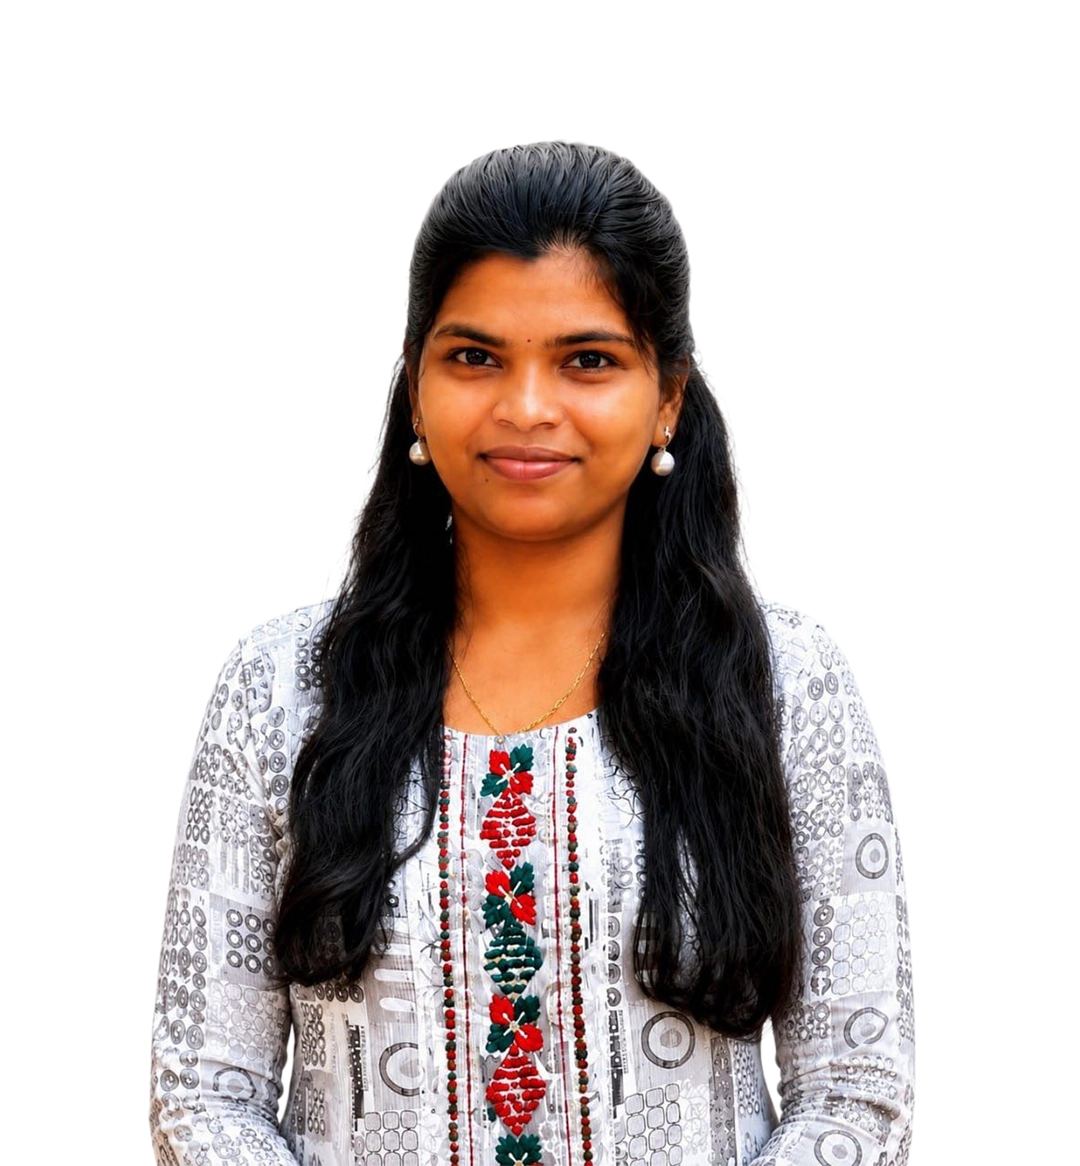
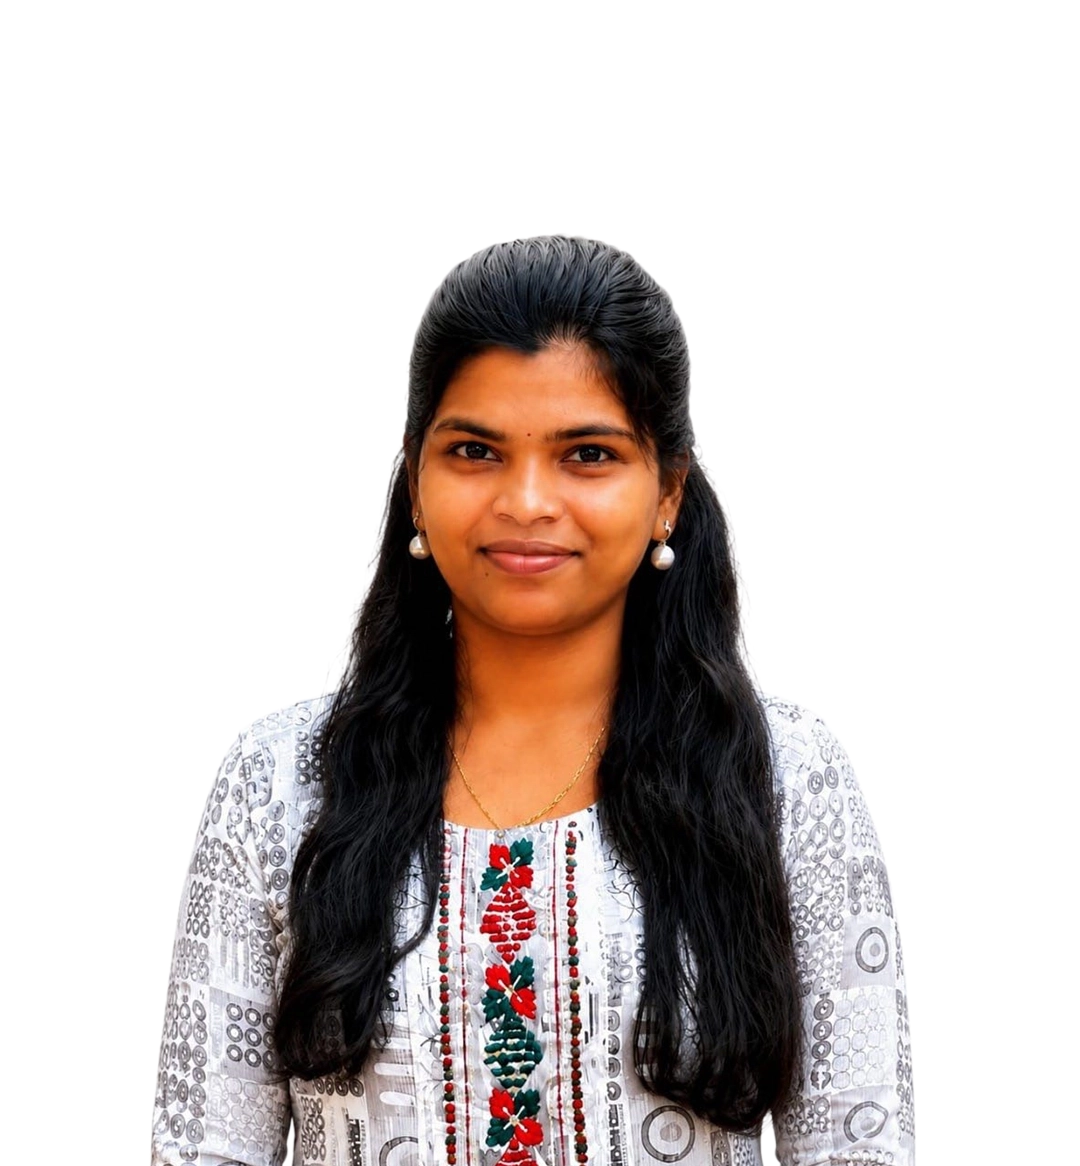
team page updated

diff --git a/app/landing-page/[slug]/page.js b/app/landing-page/[slug]/page.js
@@ -51,10 +51,10 @@ export default async function IncidentDetailPage({ params }) {
             <ArrowLeft className="h-5 w-5" />
           </Link>
 
-          <h1 className="mx-auto max-w-[800px] font-serif text-[38px] font-light uppercase leading-tight tracking-[-0.03em] text-[#001f2b] md:text-[44px] lg:text-[50px]">
+          <h1 className="mx-auto max-w-[800px] text-2xl font-normal uppercase leading-tight tracking-wide text-[#001f2b] sm:text-3xl">
             {incident.title}
           </h1>
-          <p className="mx-auto mt-3 max-w-[800px] font-serif text-[26px] font-light leading-tight text-[#001f2b] md:text-[31px]">
+          <p className="mx-auto mt-3 max-w-[800px] text-[14px] font-light italic leading-relaxed tracking-wide text-[#001f2b]">
             {incident.subtitle}
           </p>
         </section>
@@ -68,24 +68,24 @@ export default async function IncidentDetailPage({ params }) {
           />
         </div>
 
-        <article className="mx-auto max-w-[960px] px-6 py-7 font-serif text-[12px] leading-tight text-black md:text-[16px]">
-          <h2 className="mb-4 text-[18px] font-bold md:text-[24px]">
+        <article className="mx-auto max-w-[960px] px-6 py-7 text-[16px] font-normal leading-relaxed tracking-wide text-black">
+          <h2 className="mb-4 text-[16px] font-normal tracking-wide">
             Location: {incident.location}
           </h2>
 
           <div className="space-y-3">
             {incident.sections.map((section) => (
               <section key={section.heading}>
-                <h3 className="text-[18px] font-bold md:text-[24px]">
+                <h3 className="text-[16px] font-normal tracking-wide">
                   {section.heading}
                 </h3>
                 {section.body?.map((paragraph) => (
-                  <p key={paragraph} className="my-2 text-[12px] md:text-[16px]">
+                  <p key={paragraph} className="my-2">
                     {paragraph}
                   </p>
                 ))}
                 {section.points ? (
-                  <ul className="my-2 list-disc pl-5 text-[12px] md:text-[16px]">
+                  <ul className="my-2 list-disc pl-5">
                     {section.points.map((point) => (
                       <li key={point}>{point}</li>
                     ))}
@@ -98,7 +98,7 @@ export default async function IncidentDetailPage({ params }) {
 
         {otherIncidents.length > 0 ? (
           <section className="mx-auto max-w-[1160px] px-6 pb-14 pt-8">
-            <h2 className="mb-8 text-center text-[28px] font-light leading-tight text-black md:mb-10 md:text-[34px]">
+            <h2 className="mb-8 text-center text-2xl font-normal tracking-wide text-black sm:text-3xl md:mb-10">
               Related Technical Incidents
             </h2>
 
@@ -126,11 +126,11 @@ export default async function IncidentDetailPage({ params }) {
                   </div>
 
                   <div className="mt-3 flex flex-1 flex-col">
-                    <h3 className="line-clamp-2 text-[20px] leading-tight tracking-[-0.03em] text-black md:text-[24px]">
+                    <h3 className="line-clamp-2 text-[16px] font-normal tracking-wide text-black">
                       {item.title}
                     </h3>
 
-                    <p className="mt-1 line-clamp-2 text-[14px] text-[#1f292d]">
+                    <p className="mt-1 line-clamp-2 text-[14px] font-light italic tracking-wide text-[#1f292d]">
                       {item.subtitle}
                     </p>
 

diff --git a/components/LandingPage/Components/RelatedSeafarerStories.js b/components/LandingPage/Components/RelatedSeafarerStories.js
@@ -1,34 +1,17 @@
-"use client";
-
 import Image from "next/image";
 import Link from "next/link";
-import { useState } from "react";
-
-const INITIAL_COUNT = 3;
-const LOAD_MORE_COUNT = 3;
 
 export default function RelatedSeafarerStories({ stories }) {
-  const [visibleCount, setVisibleCount] = useState(INITIAL_COUNT);
-
   if (!stories.length) return null;
-
-  const visibleStories = stories.slice(0, visibleCount);
-  const hasMore = visibleCount < stories.length;
-
-  const handleLoadMore = () => {
-    setVisibleCount((count) =>
-      Math.min(count + LOAD_MORE_COUNT, stories.length)
-    );
-  };
 
   return (
     <section className="mx-auto max-w-[1160px] px-6 pb-14 pt-8">
-      <h2 className="mb-8 text-center text-[28px] font-light leading-tight text-black md:mb-10 md:text-[34px]">
+      <h2 className="mb-8 text-center text-2xl font-normal tracking-wide text-black sm:text-3xl md:mb-10">
         Related Seafarer Stories
       </h2>
 
       <div className="grid items-stretch gap-8 md:grid-cols-3 md:gap-10">
-        {visibleStories.map((item) => (
+        {stories.map((item) => (
           <article key={item.slug} className="group flex h-full flex-col">
             <div className="relative h-[140px] w-full shrink-0 overflow-hidden rounded-[8px] bg-[#032531] md:h-[160px]">
               <Image
@@ -41,12 +24,12 @@ export default function RelatedSeafarerStories({ stories }) {
             </div>
 
             <div className="mt-3 flex flex-1 flex-col">
-              <h3 className="font-serif text-[18px] leading-tight text-black md:text-[22px]">
+              <h3 className="text-[16px] font-normal tracking-wide text-black">
                 {item.title}
               </h3>
 
               {item.author ? (
-                <p className="mt-1 text-[14px] text-[#1f292d]">
+                <p className="mt-1 text-[14px] font-light italic tracking-wide text-[#1f292d]">
                   {item.author}
                 </p>
               ) : null}
@@ -61,18 +44,6 @@ export default function RelatedSeafarerStories({ stories }) {
           </article>
         ))}
       </div>
-
-      {hasMore ? (
-        <div className="mt-12 flex justify-center">
-          <button
-            type="button"
-            onClick={handleLoadMore}
-            className="rounded-full border border-[#002b3c] px-8 py-3 text-[15px] text-[#002b3c] transition-all duration-300 hover:scale-105 hover:bg-[#002b3c] hover:text-white"
-          >
-            Load More
-          </button>
-        </div>
-      ) : null}
     </section>
   );
 }

diff --git a/components/LandingPage/Components/TechnicalIncidents.js b/components/LandingPage/Components/TechnicalIncidents.js
@@ -24,18 +24,18 @@ export default function TechnicalIncidents() {
     <section className="overflow-x-hidden bg-[#f7f7f4] py-14 md:py-20">
       <div className="mx-auto max-w-[1160px] px-6">
         <div className="mx-auto max-w-[800px] text-center">
-          <h2 className="text-[50px] font-light leading-[0.95] text-black md:text-[66px]">
+          <h2 className="text-3xl font-normal leading-tight tracking-wide text-black sm:text-5xl">
             Technical
            
             Incident
           </h2>
 
-          <p className="mx-auto mt-7 max-w-[800px] text-[16px] leading-relaxed text-[#1f292d]">
+          <p className="mx-auto mt-7 max-w-[800px] text-[16px] font-normal leading-relaxed tracking-wide text-[#1f292d]">
           Every incident at sea carries a lesson. From operational challenges and equipment failures to safety observations and onboard responses, these experiences contribute to stronger practices across the industry.
 
           </p>
 
-          <p className="mx-auto mt-7 max-w-[800px] text-[16px] leading-relaxed text-[#1f292d]">
+          <p className="mx-auto mt-7 max-w-[800px] text-[16px] font-normal leading-relaxed tracking-wide text-[#1f292d]">
           This section documents technical incidents, operational case studies, and key learnings from the field- helping build awareness, preparedness, and a stronger culture of safety at sea.
 
           </p>
@@ -69,11 +69,11 @@ export default function TechnicalIncidents() {
                 </div>
 
                 <div className="mt-4 flex flex-1 flex-col">
-                  <h3 className="line-clamp-2 text-[30px] leading-tight tracking-[-0.04em] text-black md:text-[34px]">
+                  <h3 className="line-clamp-2 text-[16px] font-normal tracking-wide text-black">
                     {incident.title}
                   </h3>
 
-                  <p className="mt-1 line-clamp-2 text-[16px] text-[#1f292d]">
+                  <p className="mt-1 line-clamp-2 text-[14px] font-light italic tracking-wide text-[#1f292d]">
                     {incident.subtitle}
                   </p>
 

diff --git a/app/landing-page/seafarer-stories/[slug]/page.js b/app/landing-page/seafarer-stories/[slug]/page.js
@@ -62,11 +62,11 @@ export default async function SeafarerStoryDetailPage({ params }) {
             </div>
 
             <div className="pb-12 text-center md:pb-24 md:text-left">
-              <h1 className="font-serif text-[40px] font-light leading-tight md:text-[58px]">
+              <h1 className="text-3xl font-normal leading-tight tracking-wide sm:text-5xl">
                 {story.heroTitle || story.title}
               </h1>
               {story.heroSubtitle ? (
-                <p className="mt-4 max-w-[650px] font-serif text-[28px] font-light leading-tight md:text-[38px]">
+                <p className="mt-4 max-w-[650px] text-[14px] font-light italic leading-relaxed tracking-wide">
                   {story.heroSubtitle}
                 </p>
               ) : null}
@@ -74,7 +74,7 @@ export default async function SeafarerStoryDetailPage({ params }) {
           </div>
         </section>
 
-        <article className="mx-auto max-w-[960px] px-6 py-14 font-serif text-[12px] leading-tight text-black md:text-[16px]">
+        <article className="mx-auto max-w-[960px] px-6 py-14 text-[16px] font-normal leading-relaxed tracking-wide text-black">
           <div className="space-y-8">
             {story.sections?.length
               ? story.sections.map((section, index) => (
@@ -83,7 +83,7 @@ export default async function SeafarerStoryDetailPage({ params }) {
                     className="space-y-3"
                   >
                     {section.heading ? (
-                      <h2 className="text-[18px] font-bold md:text-[24px]">
+                      <h2 className="text-[16px] font-normal tracking-wide">
                         {section.heading}
                       </h2>
                     ) : null}

diff --git a/components/LandingPage/Components/SeafarerStories.js b/components/LandingPage/Components/SeafarerStories.js
@@ -23,16 +23,16 @@ export default function SeafarerStories() {
     <section className="overflow-x-hidden bg-gradient-to-b from-[#0796a7] to-[#002a36] py-10 md:pb-12 md:pt-11">
       <div className="mx-auto max-w-[1280px] px-6">
         <div className="mx-auto max-w-[800px] text-center text-white">
-          <h2 className="text-[44px] font-light leading-[0.95] md:text-[57px]">
+          <h2 className="text-3xl font-normal leading-tight tracking-wide sm:text-5xl">
             Seafarer
             Stories
           </h2>
 
-          <p className="mx-auto mt-7 max-w-[800px] text-[16px] leading-relaxed text-white/85">
+          <p className="mx-auto mt-7 max-w-[800px] text-[16px] font-normal leading-relaxed tracking-wide text-white/85">
           Life at sea is filled with moments that rarely make it ashore - long voyages, unexpected challenges, small celebrations onboard, lessons learned, and experiences that stay with seafarers for life.
           </p>
 
-          <p className="mx-auto mt-7 max-w-[800px] text-[16px] leading-relaxed text-white/85">
+          <p className="mx-auto mt-7 max-w-[800px] text-[16px] font-normal leading-relaxed tracking-wide text-white/85">
           This section brings together stories and reflections from crew members across ranks and vessels, offering a firsthand perspective into the people who keep global trade moving.
 
           </p>

diff --git a/components/LandingPage/Components/HeroSection.js b/components/LandingPage/Components/HeroSection.js
@@ -3,11 +3,11 @@ export default function HeroSection() {
     <section className="bg-[#f7f7f4] pb-9 pt-24 md:pb-12 md:pt-28">
       <div className="mx-auto w-full px-6">
         <div className="mx-auto w-full">
-          <h1 className="text-center text-[48px] font-light leading-[0.95] text-black md:text-[66px]">
+          <h1 className="text-center text-3xl font-normal leading-tight tracking-wide text-black sm:text-7xl">
             Stories from the Sea
           </h1>
 
-          <div className="mx-auto mt-8 w-[100%] md:w-[60%] space-y-5 text-center text-[16px] leading-relaxed text-[#1f292d]">
+          <div className="mx-auto mt-8 w-[100%] space-y-5 text-center text-[16px] font-normal leading-relaxed tracking-wide text-[#1f292d] md:w-[60%]">
             <p>
             Shipping is built on more than vessels, cargo, and routes. Behind every voyage are experiences, decisions, challenges, and people that shape life at sea every single day.
 Stories from the Sea brings together real accounts from across the maritime world, from the experiences of seafarers onboard to technical learnings from operations and incidents at sea. Together, these stories offer a closer look at the realities, responsibilities, and human side of shipping.

diff --git a/utils/member.js b/utils/member.js
@@ -149,6 +149,11 @@ export const crewMemberList = [
         name: "Angesh",
         post: "Assistant Manager - Admin & Purchase",
       },
+      {
+        imageUrl: "/about-us/member/Sai_Aravind.webp",
+        name: "Sai Aravind",
+        post: "Technical Assistant",
+      },
       
       
     ],
@@ -259,12 +264,15 @@ export const crewMemberList = [
       },
      
       {
-        imageUrl: "/about-us/member/Serma.webp",
+        imageUrl: "/about-us/member/serma.webp",
         name: "Serma Shanti",
         post: "Marine Personnel Executive",
       },
-     
-    
+      {
+        imageUrl: "/about-us/member/Megha_Mohan_Khandagale.webp",
+        name: "Megha",
+        post: "Marine Personnel Executive",
+      },
     ],
   },
   {
@@ -391,6 +399,11 @@ export const crewMemberList = [
       //   name: "Santhosh",
       //   post: "Sr. Executive - HSEQ",
       // },
+      {
+        imageUrl: "/about-us/member/Deepak_Choudhari.webp",
+        name: "Deepak",
+        post: "HSEQ Executive",
+      },
     ],
   },
   {

diff --git a/components/LandingPage/Components/cards/StoryCard.js b/components/LandingPage/Components/cards/StoryCard.js
@@ -27,10 +27,10 @@ export default function StoryCard({
 
       <div className="flex flex-1 flex-col justify-between p-5 md:p-6">
         <div>
-          <h3 className="text-[18px] leading-tight md:text-[20px]">{title}</h3>
+          <h3 className="text-[16px] font-normal tracking-wide">{title}</h3>
 
           {author ? (
-            <p className="mt-3 text-[14px] leading-snug text-white/85 md:text-[15px]">
+            <p className="mt-3 text-[14px] font-light italic tracking-wide text-white/85">
               {author}
             </p>
           ) : null}

diff --git a/components/LandingPage/Components/cards/IncidentCard.js b/components/LandingPage/Components/cards/IncidentCard.js
@@ -41,11 +41,11 @@ export default function IncidentCard({
         )}
       </div>
 
-      <h3 className="mt-6 text-5xl font-light">
+      <h3 className="mt-6 text-[16px] font-normal tracking-wide">
         {title}
       </h3>
 
-      <p className="mt-3 text-xl text-gray-600">
+      <p className="mt-3 text-[14px] font-light italic tracking-wide text-gray-600">
         {subtitle}
       </p>
 

diff --git a/components/LandingPage/Components/Footer.js b/components/LandingPage/Components/Footer.js
@@ -2,7 +2,7 @@ export default function Footer() {
     return (
       <footer className="bg-[#001A24] text-white py-20">
         <div className="max-w-7xl mx-auto px-6">
-          <h2 className="text-4xl font-light">
+          <h2 className="text-4xl font-normal">
             Nautilus Shipping
           </h2>
   
